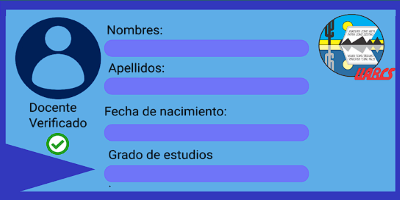
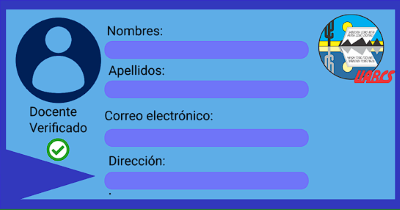
Credencial Docente funcional

diff --git a/src/Vista/Ventana.java b/src/Vista/Ventana.java
@@ -1072,8 +1072,6 @@ public class Ventana extends JFrame{
 		return fondo;
 	}
 
-	
-	
 	public JPanel crearGrupo() {
 		anterior = actual;
 		actual = "crearGrupo";
@@ -2899,7 +2897,6 @@ public class Ventana extends JFrame{
 		return fondo;
 	}
 
-	
 	public JPanel credencialDocente() {
 		anterior = actual;
 		actual = "credencialDocente";
@@ -2922,6 +2919,21 @@ public class Ventana extends JFrame{
 		fondo.add(fondo2);
 		fondo2.setLayout(null);
 		
+		BD bd = new BD();
+		JComboBox<Integer> comboBoxID = new JComboBox<>();
+	    comboBoxID.setModel(new DefaultComboBoxModel<>(bd.obtenerIDsDocente().toArray(new Integer[0])));
+	    comboBoxID.setBounds(40, 5, 200, 20);
+	    fondo2.add(comboBoxID);
+		
+		
+
+
+		JTextField datos_nombre = new JTextField();
+        JTextField datos_apePaterno = new JTextField();			
+        JTextField datos_apeMaterno = new JTextField();
+        JTextField datos_correo = new JTextField();
+        JTextField datos_direccion = new JTextField();
+		
 		
 		JButton Volver = new JButton("Volver");
 		Volver.addActionListener(new ActionListener() {
@@ -2941,9 +2953,102 @@ public class Ventana extends JFrame{
 		
 		JButton Descargar = new JButton("Descargar");
 		Descargar.addActionListener(new ActionListener() {
-			public void actionPerformed(ActionEvent e) {
-			}
+		    public void actionPerformed(ActionEvent e) {
+		    	int idConsultar = (int) comboBoxID.getSelectedItem();
+				BD bd = new BD();
+			    try {
+			        Connection cn = bd.Conectar();
+			        Statement stm = cn.createStatement();
+			        ResultSet rs = stm.executeQuery("SELECT * FROM docentesbd");
+
+			        
+			        
+			        while (rs.next()) {
+			        	
+			        	int id = rs.getInt("idDocente");
+			           
+			        	if(idConsultar == id) {
+			        		String nombre = rs.getString("Nombre");
+			        		String correo = rs.getString("Correo");
+				            String apellidoP = rs.getString("Apellido Paterno");
+				            String apellidoM = rs.getString("Apellido Materno");
+				            String direccion = rs.getString("Direccion");
+				            
+				           
+				            datos_nombre.setText(nombre);
+				            datos_apePaterno.setText(apellidoP);
+				            datos_apeMaterno.setText(apellidoM);
+				            datos_correo.setText(correo);
+				            datos_direccion.setText(direccion);		  
+				            cambio++;
+			        	}
+			        }
+
+			        rs.close();
+			        stm.close();
+			        cn.close();
+			    } catch (SQLException e1) {
+			        e1.printStackTrace();
+			    }
+			    
+			    if(cambio==0) {
+			    	JOptionPane.showMessageDialog(null, "ID de alumno invalido. Favor de intentar denuevo");
+			    }
+			    cambio=0;
+				
+		        try {
+		            // Crear el archivo PDF
+		            PdfWriter writer = new PdfWriter(new FileOutputStream("credencialDocente.pdf"));
+		            com.itextpdf.kernel.pdf.PdfDocument pdfDoc = new com.itextpdf.kernel.pdf.PdfDocument(writer);
+		            com.itextpdf.layout.Document document = new com.itextpdf.layout.Document(pdfDoc);
+
+		            
+		            // Agregar las imágenes al documento
+		            com.itextpdf.layout.element.Image imagen1 = new com.itextpdf.layout.element.Image(ImageDataFactory.create("img/credencialDF.png"));
+		            com.itextpdf.layout.element.Image imagen2 = new com.itextpdf.layout.element.Image(ImageDataFactory.create("img/credencialDT.png"));
+		            document.add(imagen1);
+		            document.add(imagen2);
+		            
+		            // Crear una capa para el texto
+		            PdfPage page = pdfDoc.addNewPage();
+		            com.itextpdf.kernel.pdf.layer.PdfLayer textLayer = new PdfLayer("Text Layer", pdfDoc);	  
+		            PdfCanvas canvas = new PdfCanvas(page);
+		            canvas.beginLayer(textLayer);
+		            canvas.endLayer();
+
+		            
+		            // Agregar el texto a la capa de texto
+		            PdfCanvas textCanvas = new PdfCanvas(pdfDoc.getPage(1));
+		            PdfFont defaultFont = PdfFontFactory.createFont();
+		            textCanvas.beginText().setFontAndSize(defaultFont, 12).moveText(145, 750).showText(datos_nombre.getText()).endText();
+		            textCanvas.beginText().setFontAndSize(defaultFont, 12).moveText(145, 710).showText(datos_apePaterno.getText()+" "+datos_apeMaterno.getText()).endText();
+		            textCanvas.beginText().setFontAndSize(defaultFont, 12).moveText(145, 662).showText(datos_correo.getText()).endText();
+		            textCanvas.beginText().setFontAndSize(defaultFont, 12).moveText(145, 621).showText(datos_direccion.getText()).endText();
+		            textCanvas.beginText().setFontAndSize(defaultFont, 14).moveText(345, 502).showText("2023").endText();
+		            textCanvas.beginText().setFontAndSize(defaultFont, 14).moveText(345, 474).showText("2024").endText();
+		            textLayer.setOn(true);
+
+		          
+
+		            // Cerrar el documento
+		            document.close();
+
+		            JOptionPane.showMessageDialog(null, "El archivo PDF se ha generado correctamente.", "Generar PDF", JOptionPane.INFORMATION_MESSAGE);
+		        } catch (FileNotFoundException ex) {
+		            ex.printStackTrace();
+		            JOptionPane.showMessageDialog(null, "Error al generar el archivo PDF.", "Generar PDF", JOptionPane.ERROR_MESSAGE);
+		        } catch (MalformedURLException e1) {
+		            e1.printStackTrace();
+		        } catch (IOException e1) {
+		            e1.printStackTrace();
+		        }
+		    }
 		});
+
+
+
+
+
 		Descargar.setForeground(new Color(255, 255, 255));
 		Descargar.setBackground(new Color(0, 128, 255));
 		Descargar.setBounds(342, 514, 95, 36);
@@ -2952,7 +3057,7 @@ public class Ventana extends JFrame{
 		JLabel imagen = new JLabel("");
 		ImageIcon imageIcon = new ImageIcon(new ImageIcon("img/credencialDF.png").getImage().getScaledInstance(400, 200, Image.SCALE_DEFAULT));
 		imagen.setIcon(imageIcon);
-		imagen.setBounds(40, 10, 400, 200);
+		imagen.setBounds(40, 30, 400, 200);
 		fondo2.add(imagen);
 		
 		JLabel imagen2 = new JLabel("");
@@ -2969,7 +3074,7 @@ public class Ventana extends JFrame{
 		this.add(fondo);
 		return fondo;
 	}
-	
+
 	
 	public void limpiarVentana() {
 

diff --git a/src/Modelo/BD.java b/src/Modelo/BD.java
@@ -82,10 +82,10 @@ public class BD {
         try {
             Connection cn = Conectar();
             java.sql.Statement stm = cn.createStatement();
-            ResultSet rs = stm.executeQuery("SELECT idDocentes FROM docentesbd");
+            ResultSet rs = stm.executeQuery("SELECT idDocente FROM docentesbd");
 
             while (rs.next()) {
-                int id = rs.getInt("idDocentes");
+                int id = rs.getInt("idDocente");
                 ids.add(id);
             }
 
